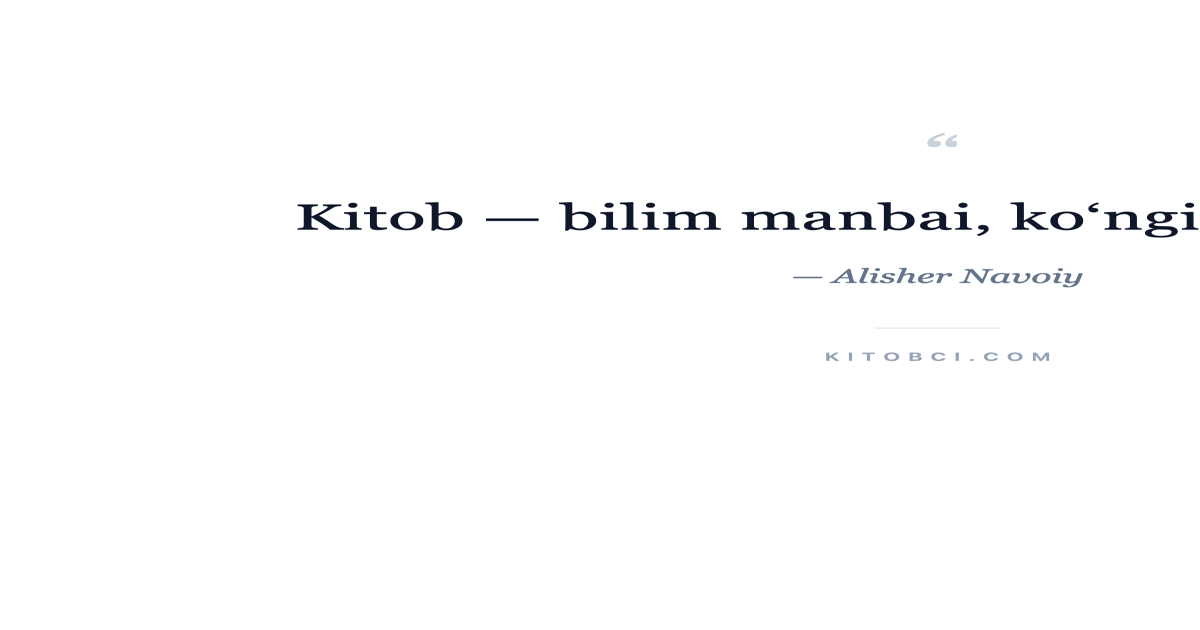
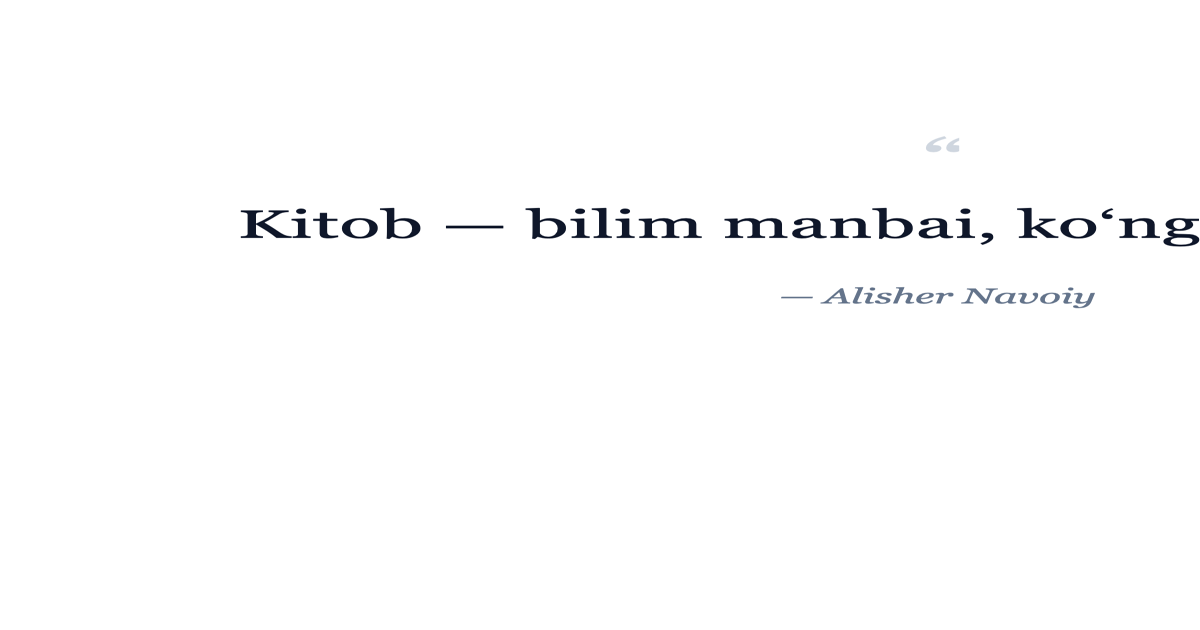
feat(seo): implement dynamic random quote server route /og-image.png and remove all domain text

diff --git a/web/server/routes/og-image.png.ts b/web/server/routes/og-image.png.ts
@@ -1,0 +1,60 @@
+export default defineEventHandler((event) => {
+  const quotes = [
+    {
+      text: "Kitob — bilim manbai, ko‘ngil chirog‘idir.",
+      author: "Alisher Navoiy"
+    },
+    {
+      text: "Bilim — qalbni yorituvchi abadiy nurdir.",
+      author: "Ibn Sino"
+    },
+    {
+      text: "Bilim — insonni komillikka yetaklovchi eng ulug‘ kuchdir.",
+      author: "Abu Rayhon Beruniy"
+    },
+    {
+      text: "Kitob o‘qish — aql va tafakkurni charxlaydigan eng buyuk ne’matdir.",
+      author: "Abdulla Qodiriy"
+    },
+    {
+      text: "Har bir o‘qilgan sahifa — bilim va hikmat xazinasidir.",
+      author: "Zahiriddin Muhammad Bobur"
+    },
+    {
+      text: "Kitob — sukutdagi eng sofdil va eng sadoqatli do‘stdir.",
+      author: "Jaloliddin Rumiy"
+    },
+    {
+      text: "Kitob bilan do‘st bo‘lgan inson hech qachon yolg‘iz qolmaydi.",
+      author: "Cho‘lpon"
+    },
+    {
+      text: "Yaxshi kitob — inson ruhini yuksaltiruvchi buyuk kuchdir.",
+      author: "Lev Tolstoy"
+    }
+  ];
+
+  // Pick a random quote on each request
+  const quote = quotes[Math.floor(Math.random() * quotes.length)];
+
+  // Determine font size based on text length
+  const fontSize = quote.text.length > 50 ? 40 : 48;
+
+  const svg = `<svg xmlns="http://www.w3.org/2000/svg" viewBox="0 0 1200 630" width="1200" height="630">
+  <rect width="1200" height="630" fill="#FFFFFF"/>
+  <g transform="translate(600, 290)" text-anchor="middle">
+    <text x="0" y="-70" font-family="'Georgia', 'Times New Roman', serif" font-size="72" font-style="italic" fill="#94A3B8" opacity="0.45">“</text>
+    <text x="0" y="0" font-family="'Georgia', 'Times New Roman', serif" font-size="${fontSize}" font-weight="500" fill="#0F172A" letter-spacing="0.5">
+      ${quote.text}
+    </text>
+    <text x="0" y="80" font-family="'Georgia', 'Times New Roman', serif" font-size="26" font-style="italic" fill="#64748B">
+      — ${quote.author}
+    </text>
+  </g>
+</svg>`;
+
+  setHeader(event, 'Content-Type', 'image/svg+xml');
+  setHeader(event, 'Cache-Control', 'no-cache, no-store, must-revalidate');
+
+  return svg;
+});
